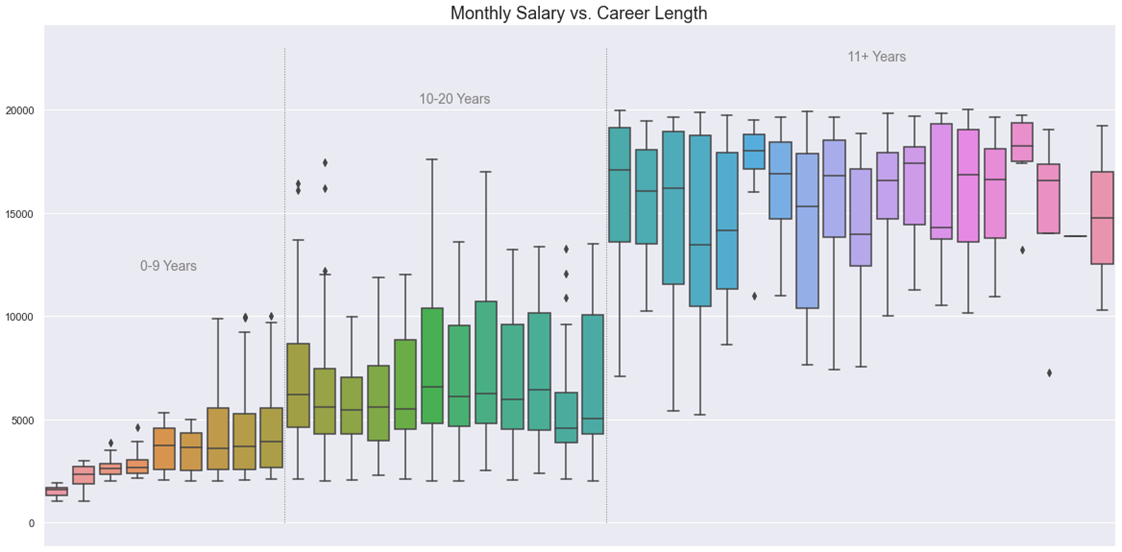
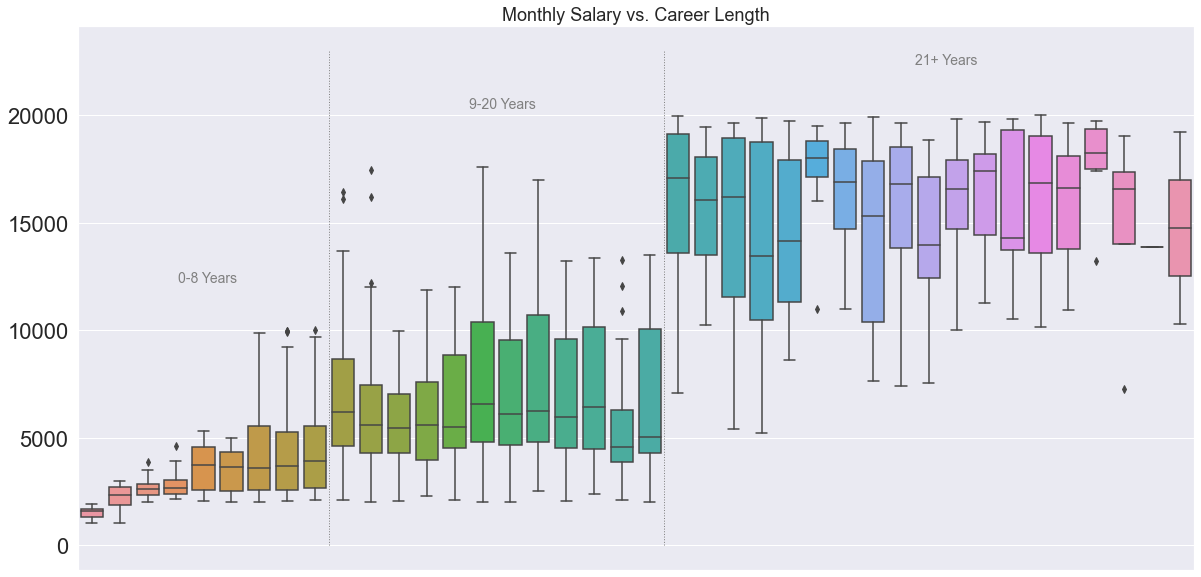
jekyll serve isn't working for me

diff --git a/graphs/_posts/2020-12-30-boxplot-density.md b/graphs/_posts/2020-12-30-boxplot-density.md
@@ -1,5 +1,5 @@
 ---
-title: "Box Plot and Categorical Density Plot"
+title: "Box Plots for Income Groups"
 categories:
   - graphs
 tags:
@@ -10,21 +10,154 @@ tags:
   - seaborn
   - matplotlib
   - boxplot
-  - density
 ---
 
-These graphs were created for assignments in a visualization class.
+This graph was created for an assignment in a visualization class.
 
 <img src="/assets/images/2-30-20-graphs/careersalary.png"/>
 
-<img src="/assets/images/2-30-20-graphs/densities.png" width="500"/>
-
-I will give details about each graph and then as usual I will discuss the code used to generate them.
+I will give details about the graph and then as usual I will discuss the code used to generate it.
 
 
-## Box Plots
-![Salary by Career Length]({{ https://jules-stacy.github.io/ }}/assets/images/2-30-20-graphs/careersalary.png "boxplots of salary based on years of work experience")
+## Salary by Work Experience
 
 The data for this graph was taken from the IBM HR Analytics Employee Attrition & Performance dataset located here: https://www.kaggle.com/pavansubhasht/ibm-hr-analytics-attrition-dataset
  
 There are clear increases in salary amount at years 10 and 20, and the graph is designed in such a way that it highlights these salary increases.
+
+## Code Breakdown
+
+#### Imports
+```python
+import pandas as pd
+import numpy as np
+import matplotlib.pyplot as plt
+import seaborn as sns
+from matplotlib.ticker import MultipleLocator
+```
+
+#### Code Chunk
+```python
+#Initialize graph
+sns.set(font_scale=1)
+fig, ax = plt.subplots(figsize=(20,10))
+sns.boxplot(x="TotalWorkingYears", y="MonthlyIncome", data=df)
+
+#adjust major and minor tick marks on the x axis
+ax.xaxis.set_major_locator(MultipleLocator(10))
+ax.tick_params(axis='x', which='minor', direction='out')
+ax.xaxis.set_minor_locator(MultipleLocator(1))
+
+#put dividing lines
+plt.plot([8.5, 8.5], [0, 23000], lw=1, color='grey', linestyle=":")
+plt.plot([20.5, 20.5], [0, 23000], lw=1, color='grey', linestyle=":")
+
+#add text to groups
+ax.annotate('0-9 Years', 
+            xy=(3, 1),  xycoords='data', fontsize=14,
+            xytext=(.09, .55), textcoords='axes fraction',
+            horizontalalignment='left', verticalalignment='top', color='grey'
+            )
+ax.annotate('10-20 Years', 
+            xy=(3, 1),  xycoords='data', fontsize=14,
+            xytext=(.35, .87), textcoords='axes fraction',
+            horizontalalignment='left', verticalalignment='top', color='grey'
+            )
+ax.annotate('21+ Years', 
+            xy=(3, 1),  xycoords='data', fontsize=14,
+            xytext=(.75, .95), textcoords='axes fraction',
+            horizontalalignment='left', verticalalignment='top', color='grey'
+            )
+#get rid of unnecessary labels
+ax.set(xlabel="", ylabel='')
+ax.get_xaxis().set_visible(False)
+
+#set title
+plt.title("Monthly Salary vs. Career Length", fontdict ={'fontsize':18})
+```
+
+Above is the entire chunk. Below I will explain each section.
+
+```python
+#Initialize graph
+sns.set(font_scale=1)
+fig, ax = plt.subplots(figsize=(20,10))
+sns.boxplot(x="TotalWorkingYears", y="MonthlyIncome", data=df)
+```
+
+This portion initializes the graph. Seaborn is first called to set the font scale to 1; as-is it does nothing to the graph but changing it to other values adjusts the size of the x-axis labels.
+
+The figure and axis objects are created with plt.subplots, and the figure size is specified. Finally, a boxplot is created using seaborn, with x and y axes specified.
+
+```python
+#adjust major and minor tick marks on the x axis
+ax.xaxis.set_major_locator(MultipleLocator(10))
+ax.tick_params(axis='x', which='minor', direction='out')
+ax.xaxis.set_minor_locator(MultipleLocator(1))
+```
+
+This section makes adjustments to the major and minor tick marks. You may notice that there is no x-axis on this graph; it is removed at a later step. I frequently re-use code in my graphs and this section consistently adjusts x-axis parameters, so I will explain it.
+
+Each line modifies the x-axis on the ax object that was created in the section above. The set_major_locator and set_minor_locator methods detect where the tick marks should be located on the graph, and also specify tick spacing at 10 for major ticks and 1 for minor ticks.
+
+The tick_params line makes adjustments for the direction that the tick marks face on the graph (if there were an x-axis shown). In this case the minor tick marks are set to point outwards from the figure.
+
+```python
+#put dividing lines
+plt.plot([8.5, 8.5], [0, 23000], lw=1, color='grey', linestyle=":")
+plt.plot([20.5, 20.5], [0, 23000], lw=1, color='grey', linestyle=":")
+```
+
+This section of code draws the grey dotted lines between each group. These lines serve to break up the portions of the graph so that it is immediately visible to the viewer where the salary breaks occur.
+
+The pyplot.plot method is called, and then there are some numbers. These numbers specify the coordinates of the endpoints of each line on the plot: the first two numbers are x-axis coordinates and the final two numbers are y-axis coordinates; in this case the lines are drawn after 8 years and after 20 years (the extra 0.5 is added to draw the line between boxes rather than on top of them).
+
+Other parameters are specified in this section: the color of the lines is set to grey and the lines are dotted with ":".
+
+```python
+#add text to groups
+ax.annotate('0-8 Years', 
+            xy=(3, 1),  xycoords='data', fontsize=14,
+            xytext=(.09, .55), textcoords='axes fraction',
+            horizontalalignment='left', verticalalignment='top', color='grey'
+            )
+ax.annotate('9-20 Years', 
+            xy=(3, 1),  xycoords='data', fontsize=14,
+            xytext=(.35, .87), textcoords='axes fraction',
+            horizontalalignment='left', verticalalignment='top', color='grey'
+            )
+ax.annotate('21+ Years', 
+            xy=(3, 1),  xycoords='data', fontsize=14,
+            xytext=(.75, .95), textcoords='axes fraction',
+            horizontalalignment='left', verticalalignment='top', color='grey'
+            )
+
+```
+
+This section adds the labels for each group.
+
+The annotate method is called on the axis object, which relates coordinate positions to values on the axis. The text to be drawn is specified.
+
+After this, an xy variable is specified at (3,1). Annotate has a built-in feature to draw an arrow alongside the text, and this variable specifies the endpoint of said arrow. This part of the code is necessary, but the portion that draws the arrow is removed.
+
+The font size is then set, followed by the text coordinate values (x followed by y). After that, textcoords specifies how the annotate function should read the coordinate values; in this case, as a fraction of the axes. The text was positioned manually through trial and error.
+
+Finally, the horizontal alignment, vertical alignment, and color are specified. The alignment values help determine the positioning of the text; for each text box in this instance, the coordinates specify the location of the top left corner.
+
+
+```python
+#get rid of unnecessary labels
+ax.set(xlabel="", ylabel='')
+ax.get_xaxis().set_visible(False)
+```
+
+This section of code removes the axis labels and the x axis. This was done because all the information needed to read the graph is currently present in the title, the values on the y-axis, and the group labels.
+
+The set method sets the xlabel and ylabel to blank values. For the second line, ax.get_xaxis() grabs the x axis as an object, and then .set_visible() sets the visibility to false.
+
+```python
+#set title
+plt.title("Monthly Salary vs. Career Length", fontdict ={'fontsize':18})
+```
+
+The final line in the code chunk sets the title for the graph.
